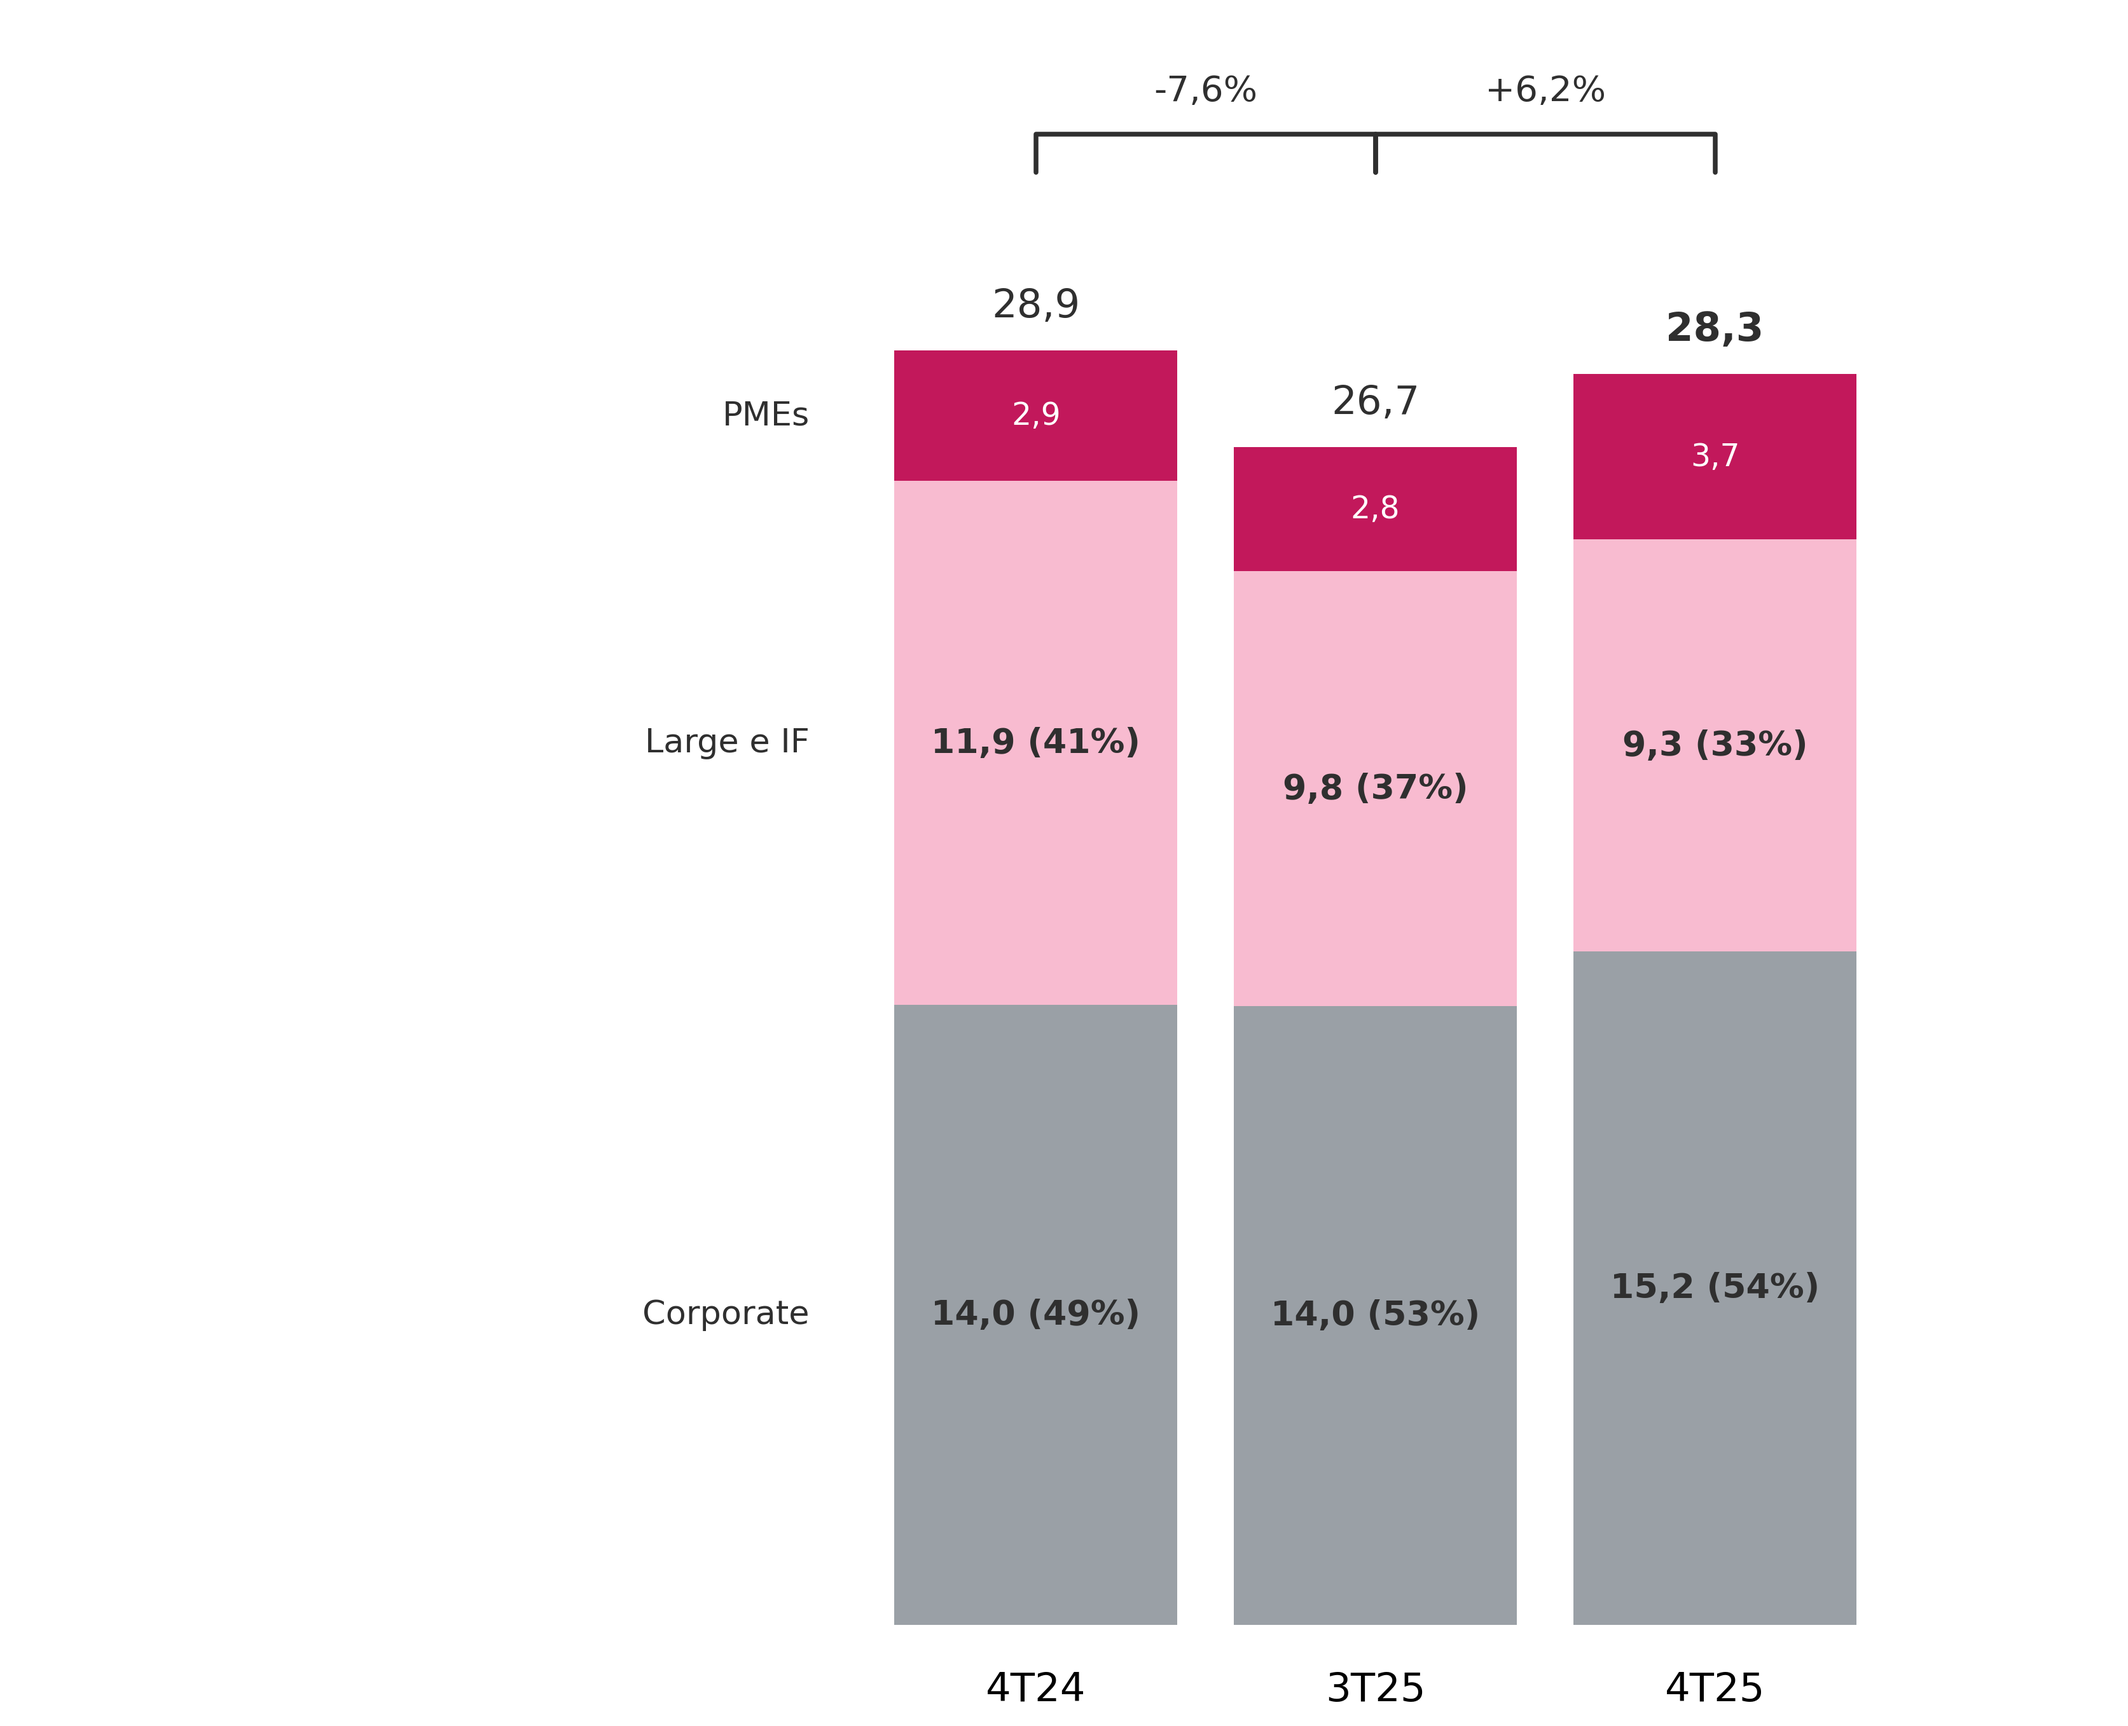
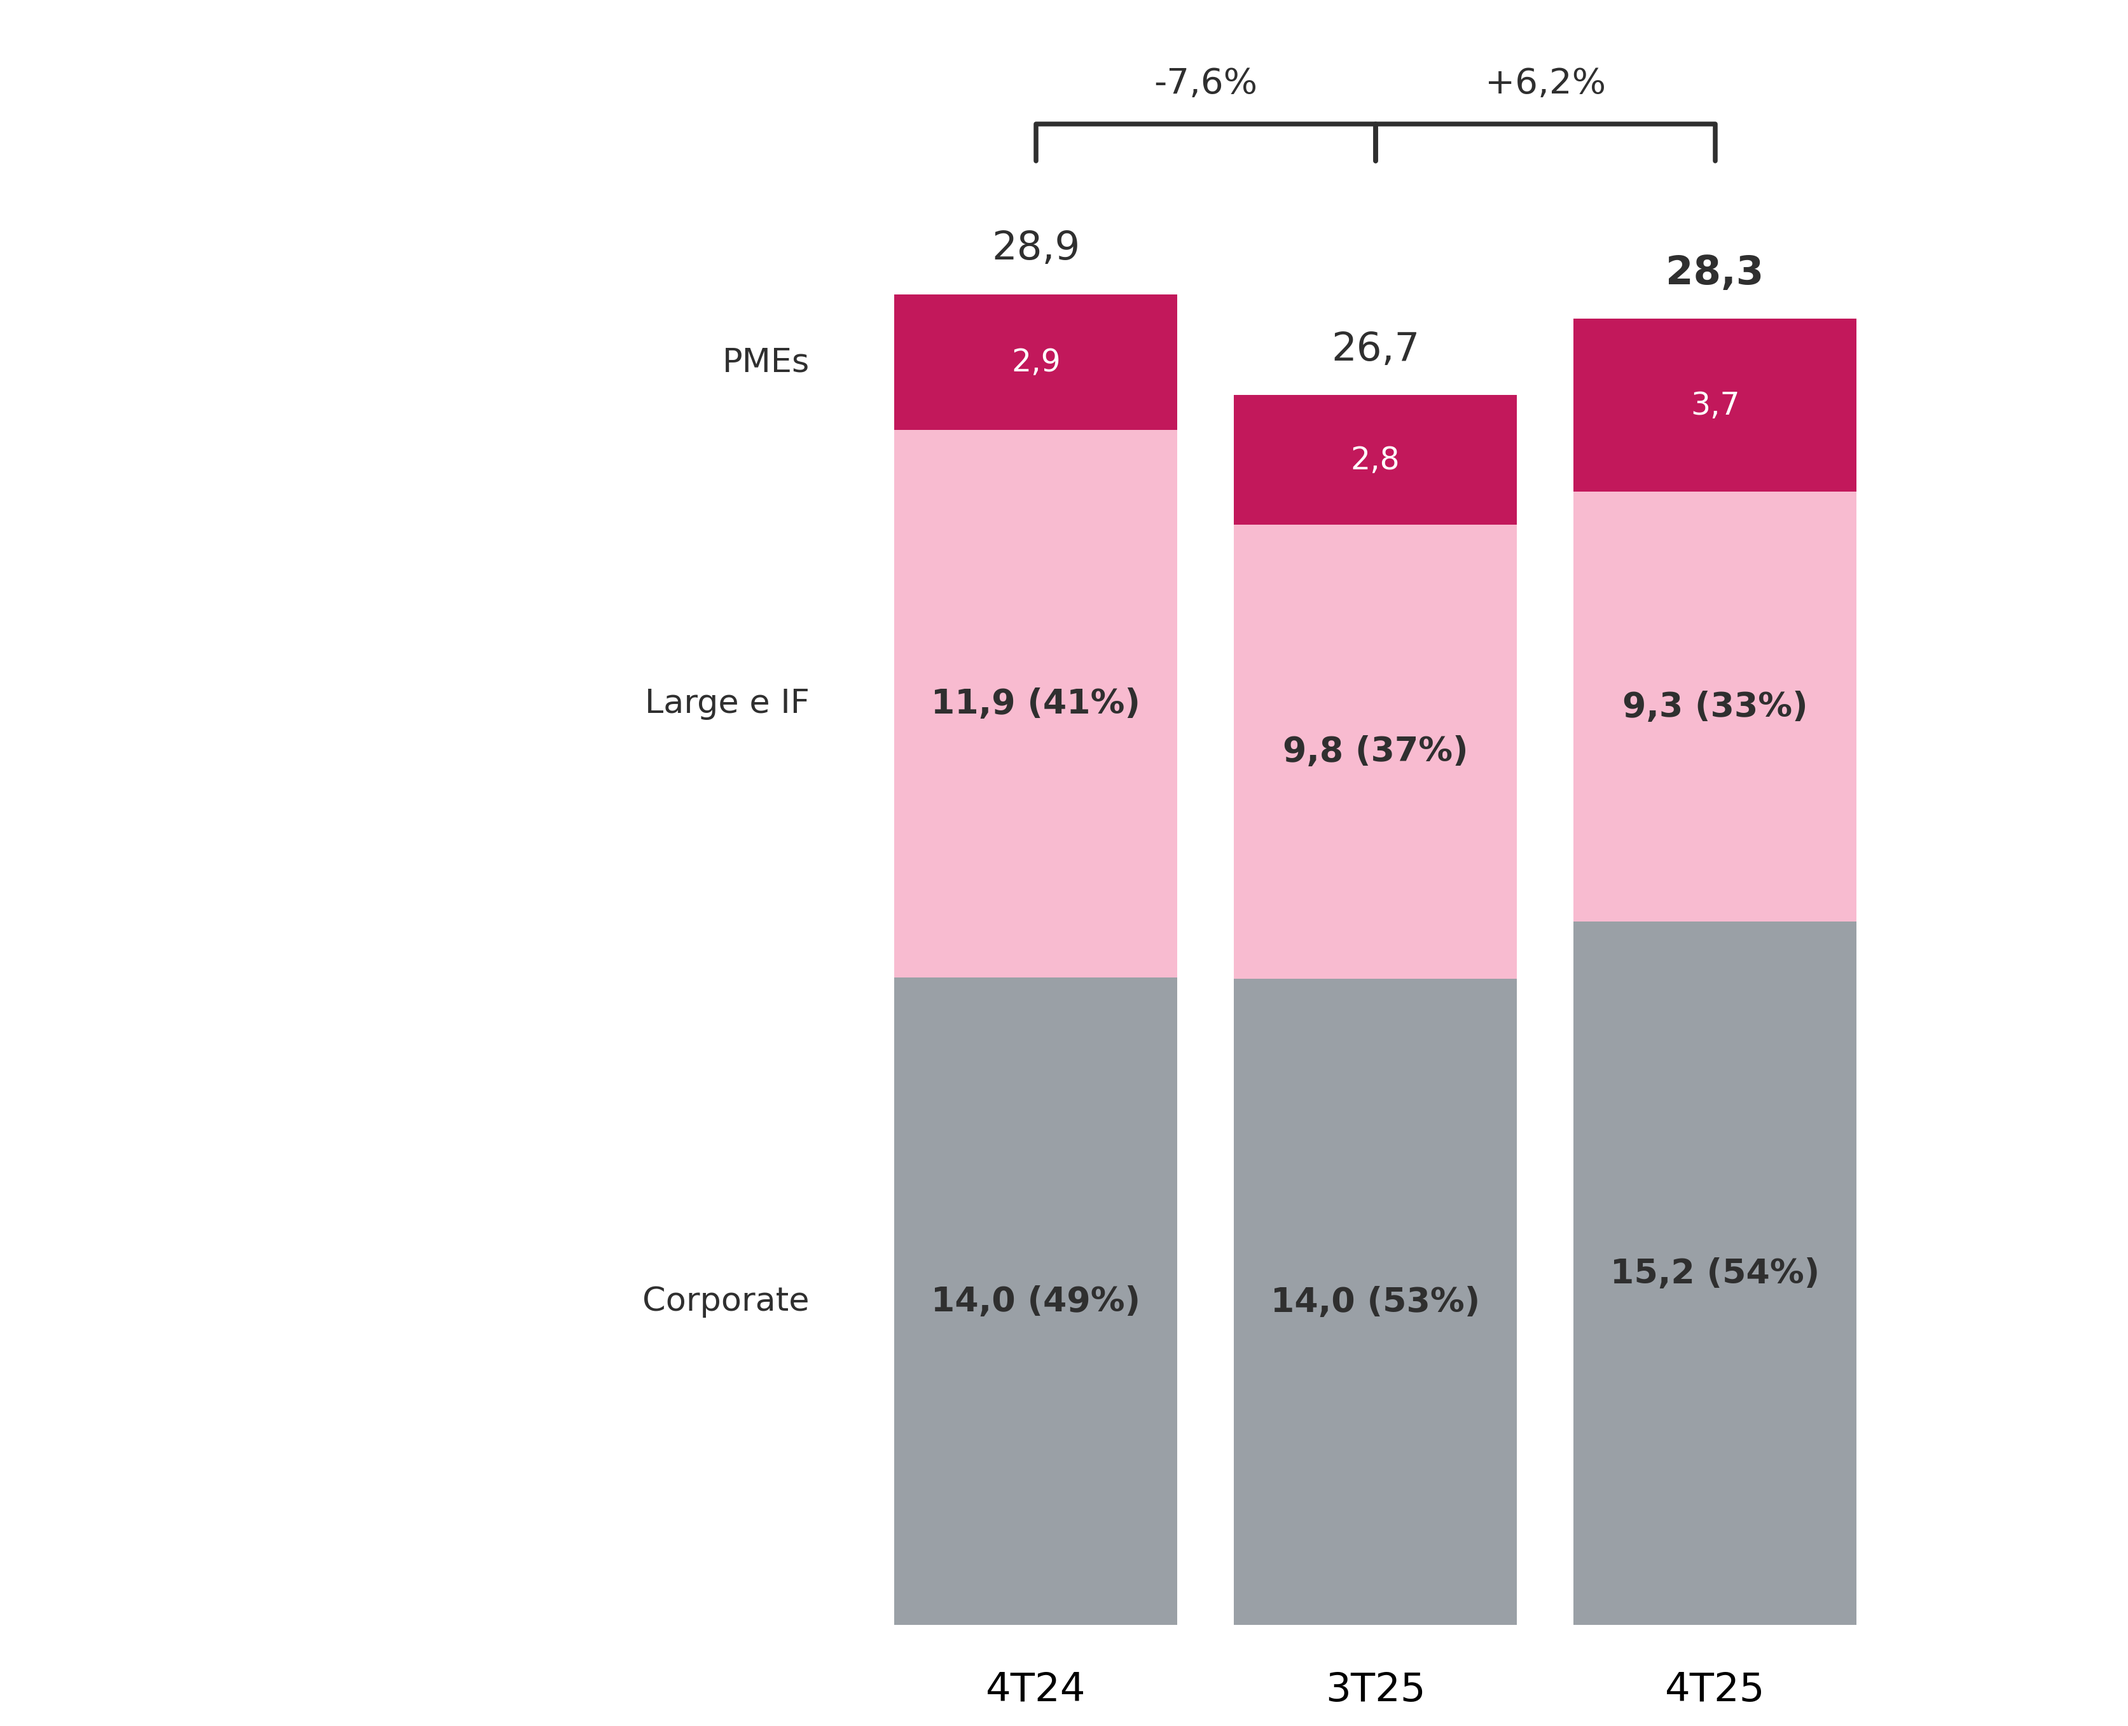
fine adjustments on slide 13

diff --git a/utils/slide13_charts.py b/utils/slide13_charts.py
@@ -128,6 +128,26 @@ def _share_label_indices(values_row: np.ndarray) -> set[int]:
     return set(ordered_positive[:top_n])
 
 
+def _top_badge_label_indices(values_row: np.ndarray) -> set[int]:
+    row = np.asarray(values_row, dtype=float)
+    ordered_positive = [
+        idx for idx in _stack_order_for_bar(row) if np.isfinite(float(row[idx])) and float(row[idx]) > 0
+    ]
+    if not ordered_positive:
+        return set()
+
+    total = float(np.nansum(row))
+    if not np.isfinite(total) or total <= 0:
+        return set()
+
+    candidates = ordered_positive[-2:]
+    return {
+        idx
+        for idx in candidates
+        if ((float(row[idx]) / total) * 100.0) <= 12.0
+    }
+
+
 def _sum_ranges(ws, ranges: tuple[str, ...]) -> np.ndarray:
     total: np.ndarray | None = None
     for cell_range in ranges:
@@ -221,6 +241,7 @@ def _plot_slide13_breakdown(
             continue
 
         pct_indices = _share_label_indices(values_arr[i, :])
+        badge_indices = _top_badge_label_indices(values_arr[i, :])
         for idx in orders[i]:
             value = float(values_arr[i, idx])
             if not np.isfinite(value) or value <= 0:
@@ -232,6 +253,7 @@ def _plot_slide13_breakdown(
 
             rgba = to_rgba(palette[idx % len(palette)])
             txt_color = _text_color_for_bg_rgba(rgba)
+            use_badge = idx in badge_indices
             ax.text(
                 float(x[i]),
                 float(segment_centers[i, idx]),
@@ -241,14 +263,24 @@ def _plot_slide13_breakdown(
                 fontsize=8.6 if idx in pct_indices else 7.8,
                 color=txt_color,
                 fontweight="bold" if idx in pct_indices else "normal",
-                zorder=6,
+                zorder=7 if use_badge else 6,
+                clip_on=not use_badge,
+                bbox=(
+                    {
+                        "facecolor": palette[idx % len(palette)],
+                        "edgecolor": "none",
+                        "boxstyle": "round,pad=0.16",
+                    }
+                    if use_badge
+                    else None
+                ),
             )
 
     if n >= 2:
-        offset_y = max(abs_max * 0.08, 0.30)
-        bracket_h = max(abs_max * 0.03, 0.18)
+        offset_y = max(abs_max * 0.07, 0.24)
+        bracket_h = max(abs_max * 0.028, 0.15)
         top_labels_max = max(total_label_tops) if total_label_tops else float(np.nanmax(totals))
-        top_base = float(top_labels_max) + max(abs_max * 0.12, 0.55)
+        top_base = float(top_labels_max) + max(abs_max * 0.08, 0.32)
         max_text_y: float | None = None
 
         for i in range(1, n):

diff --git a/tests/test_slide13_charts.py b/tests/test_slide13_charts.py
@@ -10,6 +10,7 @@ from utils.slide13_charts import (
     _fmt_num,
     _share_label_indices,
     _stack_order_for_bar,
+    _top_badge_label_indices,
     SLIDE13_ATACADO_PALETTE,
     SLIDE13_PALETTE,
     generate_slide13_charts,
@@ -25,6 +26,8 @@ class TestSlide13Charts(unittest.TestCase):
         self.assertEqual(_stack_order_for_bar(np.asarray([1.0, 3.0, 2.0])), (1, 2, 0))
         self.assertEqual(_share_label_indices(np.asarray([9.0, 8.0, 7.0, 6.0, 5.0])), {0, 1, 2})
         self.assertEqual(_share_label_indices(np.asarray([9.0, 8.0, 7.0])), {0, 1})
+        self.assertEqual(_top_badge_label_indices(np.asarray([9.0, 5.0, 1.0, 0.6])), {2, 3})
+        self.assertEqual(_top_badge_label_indices(np.asarray([9.0, 5.0, 3.0, 2.0])), {3})
 
     def test_generate_slide13_charts_uses_updated_carteira_ranges(self):
         wb = Workbook()
